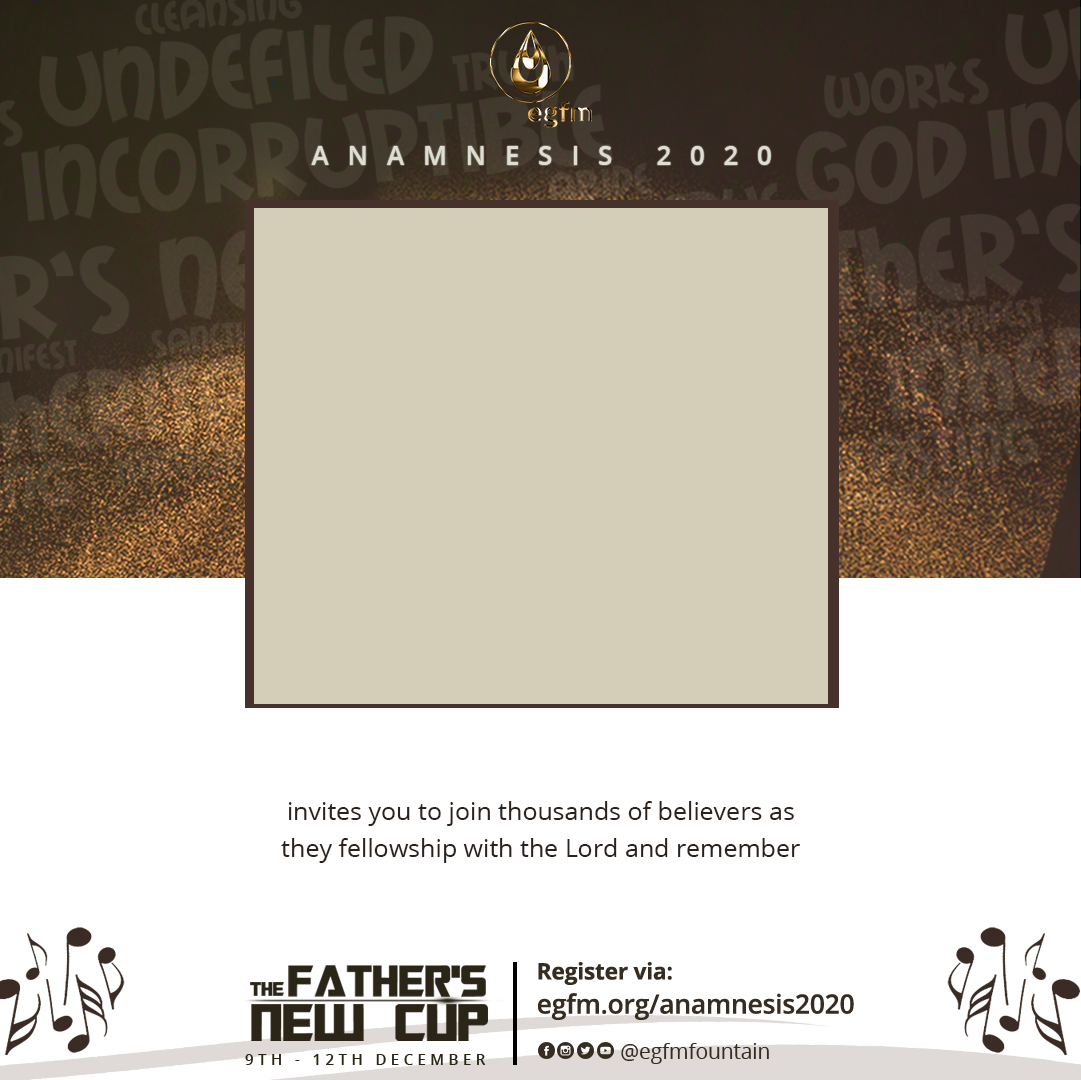
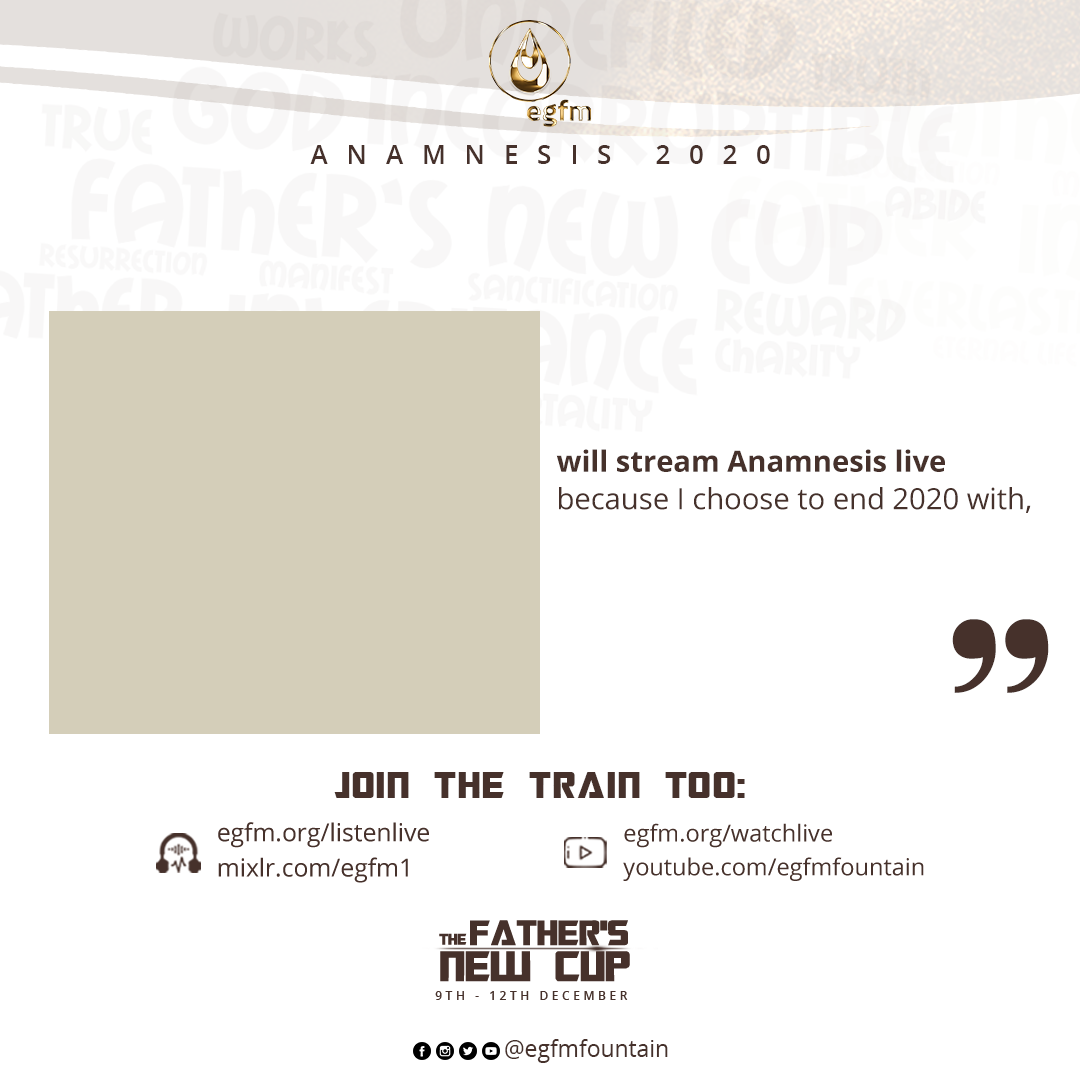
Set up new frame

diff --git a/index.html b/index.html
@@ -12,7 +12,7 @@
       rel="stylesheet"
       src="//normalize-css.googlecode.com/svn/trunk/normalize.css"
     />
-    <link rel="stylesheet" type="text/css" href="src/css/style.css?v=0.2" />
+    <link rel="stylesheet" type="text/css" href="src/css/style.css?v=0.3" />
     <link rel="stylesheet" type="text/css" href="src/fonts/themify-icons.css" />
     <link
       href="https://fonts.googleapis.com/css?family=Roboto"
@@ -34,7 +34,7 @@
         <img id="logo" src="./src/img/ssLogo.png" alt="Egfm Logo" />
       </div>
       <div id="header-text">
-        <h1 style="font-family: TransformersMovie">#Anamnesis2020</h1>
+        <h1 style="font-family: Autography">#Anamnesis2020</h1>
       </div>
     </header>
     <main>
@@ -144,8 +144,8 @@
                 id="testimony"
                 class="form-control2"
                 style="margin-bottom: 10%"
-                placeholder="What do you remember the Lord for?"
-                maxlength="20"
+                placeholder="What do you choose to end 2020 with?"
+                maxlength="60"
                 required
               ></textarea>
             </div>
@@ -212,7 +212,7 @@
     </main>
     <script src="src/js/jquery.min.js"></script>
     <script src="src/js/jquery.cropit.js"></script>
-    <script src="src/js/main.js?v=0.2"></script>
+    <script src="src/js/main.js?v=0.3"></script>
     <!-- <script src="src/js/cloud.js"></script> -->
     <script>
       // const textarea = document.getElementById("testimony");

diff --git a/src/js/main.js b/src/js/main.js
@@ -79,9 +79,9 @@ $(function () {
     button.attr("disabled", "disabled").html("...processing");
 
     // x, y, width, height
-    const picData = [254, 208, 574, 496];
+    const picData = [48.6, 311, 490.8, 422.5];
     // name, y, x
-    const nameData = [username, 728, 286, testimony];
+    const nameData = [username, 351, 555, testimony];
     // const nameData = [username + ",", 1295, 685, ministryName];
 
     createDP(username, imageData, picData, nameData, function (url) {
@@ -312,17 +312,17 @@ $(function () {
 
       //Write user name
       ctx.textBaseline = "top";
-      ctx.textAlign = "center";
-      ctx.font = "63px TransformersMovie";
-      ctx.fillStyle = "#3a2c24";
+      ctx.textAlign = "left";
+      ctx.font = "63px Autography";
+      ctx.fillStyle = "#46312b";
       var canvasText = name[0];
-      ctx.fillText(canvasText, 540, name[1]);
+      ctx.fillText(canvasText, name[2], name[1]);
       // ctx.renderText(name[3], name[2], name[1], 1);
 
       //Write testimony
-      ctx.font = "25px OpenSans-Bold";
-      ctx.fillStyle = "#2c211b";
-      wrapText(ctx, name[3], 540, 873, 30, 38, 0);
+      ctx.font = "29.5px OpenSans-Bold";
+      ctx.fillStyle = "#46312b";
+      wrapText(ctx, name[3], 556, 527, 30, 37, 0);
 
       cb(canvas.toDataURL("image/jpeg", 1.0));
     }

diff --git a/src/css/style.css b/src/css/style.css
@@ -654,7 +654,7 @@ button[type="submit"] {
   }
   .cropit-preview {
     width: 260px;
-    height: 225px;
+    height: 224px;
     margin-left: 5%;
   }
   .arrow-back {
@@ -681,7 +681,7 @@ button[type="submit"] {
   }
   .cropit-preview {
     width: 225px;
-    height: 195px;
+    height: 194px;
     margin-left: 5%;
   }
   .under p {
